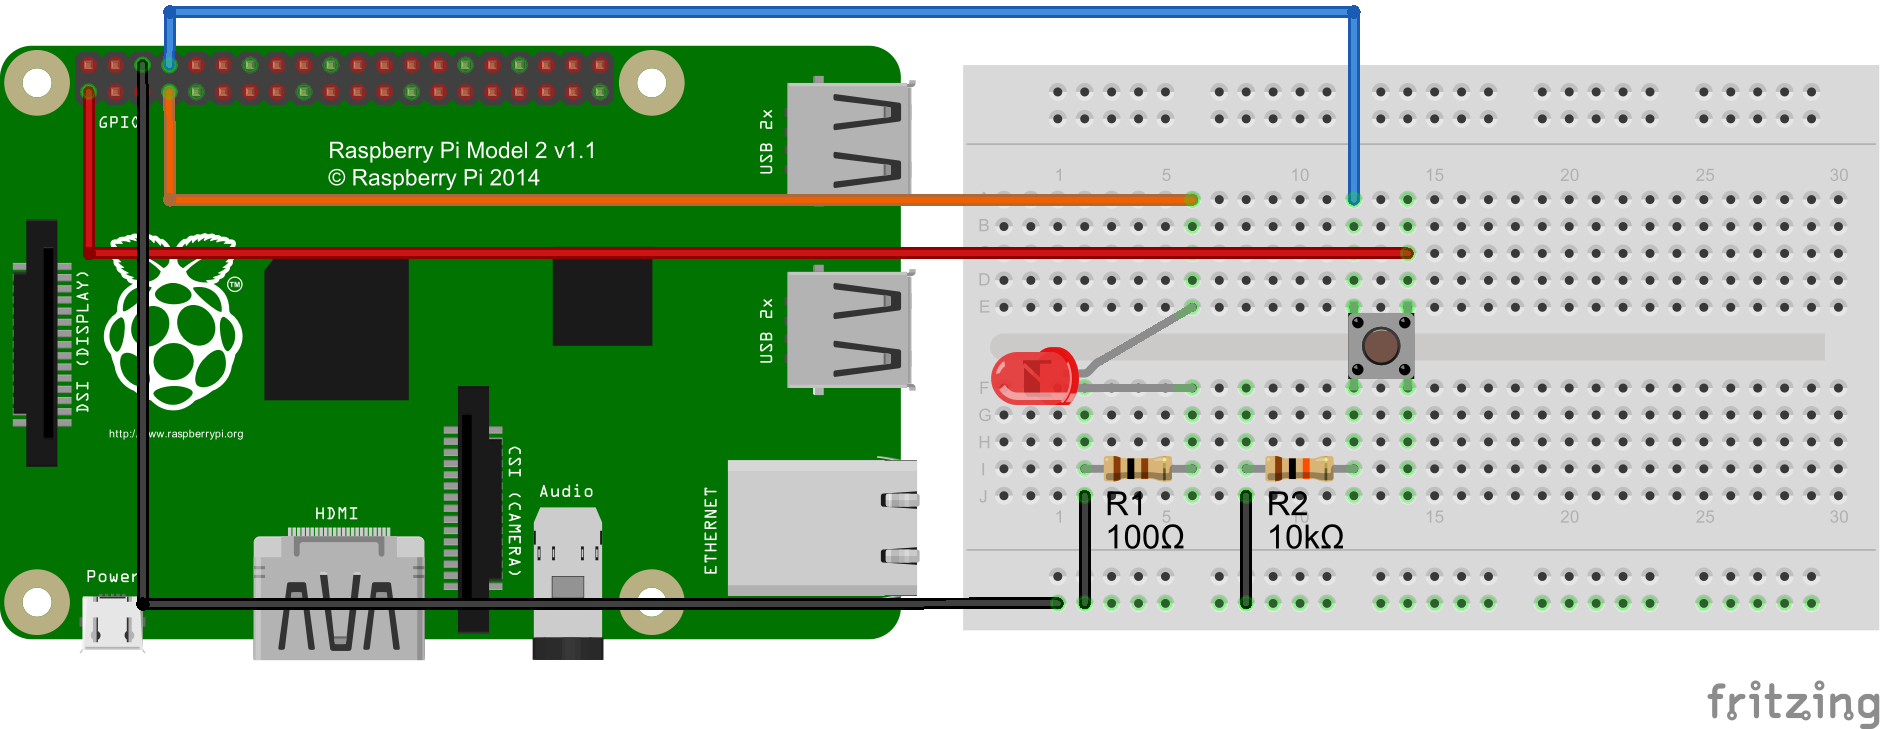
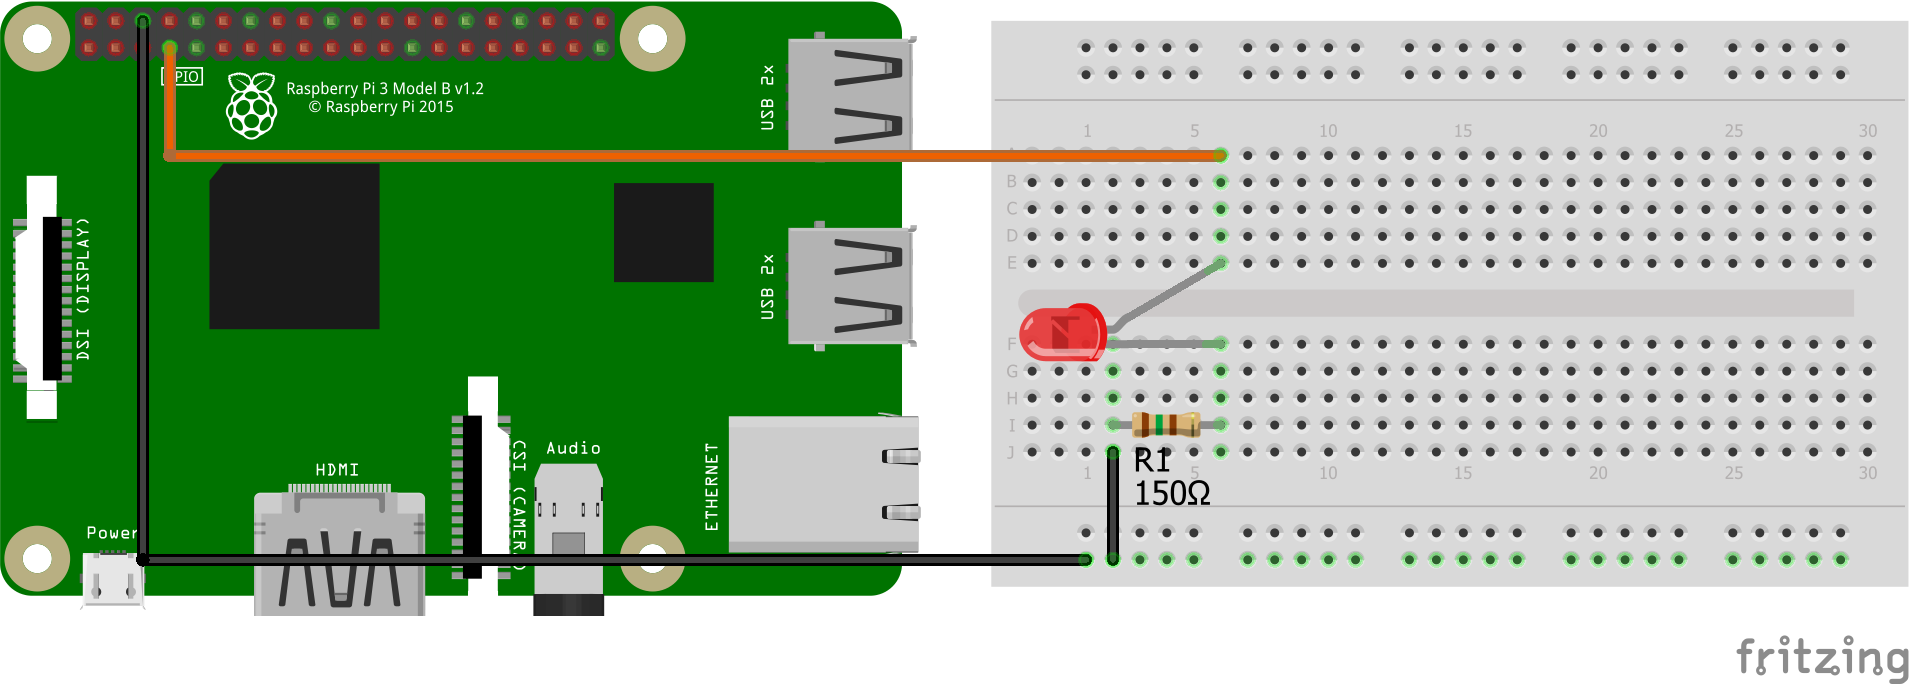
Updated RPI examples. Work in progress.

diff --git a/RaspberryPi/Blink-Fade/Blink-Fade.py b/RaspberryPi/Blink-Fade/Blink-Fade.py
@@ -15,68 +15,61 @@
   Purpose : Use RPi.GPIO module to blink or fade an LED. Execution
             switches between the two whenever a push button is pressed
             and released. Fading uses software PWM since RPi.GPIO
-            module does not support hardware PWM. Note that RPi.GPIO 
+            module does not support hardware PWM. Note that RPi.GPIO
             is available by default on Raspbian Jessie.
   Date    : 10 Mar 2016
-  Boards  : Raspberry Pi 2
+  Boards  : Raspberry Pi 3
   =====================================================================
 '''
 
 # Wiki examples on RPi.GPIO:
 # https://sourceforge.net/p/raspberry-gpio-python/wiki/Examples/
 
-import RPi.GPIO as GPIO
 import time
+import sys
+from itertools import chain
+import RPi.GPIO as GPIO
 
-ToBlink = True # True: blink, False: fade
-LedPin = 7 # GPIO7 for board numbering; GPIO4 for BCM numbering
-ButtonPin = 8
 
-def init():
-    GPIO.setmode(GPIO.BOARD)
-    
-    GPIO.setup(LedPin, GPIO.OUT)
-    
-    # Pulldown mode and detect event when push button is released
-    GPIO.setup(ButtonPin, GPIO.IN, pull_up_down=GPIO.PUD_DOWN)
-    GPIO.add_event_detect(ButtonPin, GPIO.FALLING)
-
-    
-def readButton():
-    global ToBlink
-    if GPIO.event_detected(ButtonPin):
-        ToBlink = not ToBlink
-
-    
-def blink(n=1):
+def blink(pin, n=1):
     for _ in range(n):
-        GPIO.output(LedPin, True)
-        time.sleep(1)
-        GPIO.output(LedPin, False)
-        time.sleep(1)
+        GPIO.output(pin, True)
+        time.sleep(0.5)
+        GPIO.output(pin, False)
+        time.sleep(0.5)
 
-        
-def fade(n=1):
-    pwm = GPIO.PWM(LedPin, 500)
-    for _ in range(n):
-        for dutyCycle in range(0, 100, 5):
-            pwm.start(dutyCycle)
-            time.sleep(0.05)
-        for dutyCycle in range(100, 0, -5):
-            pwm.start(dutyCycle)
-            time.sleep(0.05)
+
+def fade(pin, n=1000):
+    pwm = GPIO.PWM(pin, 100)
+    pwm.start(0)
+    try:
+        for _ in range(n):
+            for dc in chain(range(0, 101, 5), range(100, -1, -5)):
+                pwm.ChangeDutyCycle(dc)
+                time.sleep(0.05)
+    except KeyboardInterrupt:
+        pwm.stop()
+        raise KeyboardInterrupt
     pwm.stop()
 
 
-init()
-try:
-    while True:
-        readButton()
-        if ToBlink:
-            blink()
-        else:
-            fade()
-except KeyboardInterrupt:
-    pass
-finally:
-    GPIO.cleanup()
+if __name__ == '__main__':
+    if len(sys.argv) > 1 and sys.argv[1] == 'fade':
+        ToFade = True
+    else:
+        ToFade = False
+
+    LedPin = 7 # GPIO7 for board numbering; GPIO4 for BCM numbering
+    GPIO.setmode(GPIO.BOARD)
+    GPIO.setup(LedPin, GPIO.OUT)
+
+    try:
+        while True:
+            if ToFade:
+                blink(LedPin)
+            else:
+                fade(LedPin)
+    except KeyboardInterrupt:
+        pass
+    finally:
+        GPIO.cleanup()

diff --git a/RaspberryPi/WiringPi-PWM/WiringPi-PWM.py b/RaspberryPi/WiringPi-PWM/WiringPi-PWM.py
@@ -1,0 +1,63 @@
+'''=====================================================================
+This program is free software: you can redistribute it and/or modify
+it under the terms of the GNU General Public License as published by
+the Free Software Foundation, either version 3 of the License, or
+(at your option) any later version.
+
+This program is distributed in the hope that it will be useful,
+but WITHOUT ANY WARRANTY; without even the implied warranty of
+MERCHANTABILITY or FITNESS FOR A PARTICULAR PURPOSE.  See the
+GNU General Public License for more details.
+
+You should have received a copy of the GNU General Public License
+along with this program.  If not, see <http://www.gnu.org/licenses/>.
+---------------------------------------------------------------------
+Purpose : Use WiringPi-Python binding of WiringPi C implementation.
+            Source: https://github.com/WiringPi/WiringPi-Python
+            This example shows HW PWM on GPIO18. Code shows the use
+            of SW PWM, which is possible on any GPIO pin.
+Date    : 13 Jun 2017
+Boards  : Raspberry Pi 3
+=====================================================================
+'''
+
+import time
+import sys
+from itertools import chain
+import wiringpi
+
+
+def hw_pwm(pin=18, n=1000):
+    wiringpi.pinMode(pin, 2)
+    for _ in range(n):
+        for dc in chain(range(0, 101, 5), range(100, -1, -5)):
+            wiringpi.pwmWrite(pin, dc)
+            time.sleep(0.05)
+
+
+def sw_pwm(pin, n=1000):
+    # TODO Supposed to work on any GPIO ping but works only on GPIO18
+    wiringpi.pinMode(pin, 1)
+    wiringpi.softPwmCreate(pin, 0, 100)
+    for _ in range(n):
+        for dc in chain(range(0, 101, 5), range(100, -1, -5)):
+            wiringpi.softPwmWrite(pin, dc)
+            time.sleep(0.05)
+
+
+if __name__ == '__main__':
+    if len(sys.argv) > 1 and sys.argv[1] == 'sw':
+        SwPwm = True
+    else:
+        SwPwm = False
+
+    LedPin = 18 # BCM numbering is default
+    wiringpi.wiringPiSetupGpio()
+
+    try:
+        if SwPwm:
+            sw_pwm(LedPin)
+        else:
+            hw_pwm()
+    except KeyboardInterrupt:
+        wiringpi.pinMode(LedPin, 0)

diff --git a/RaspberryPi/WiringPi-PWM/WiringPi-PWM.c b/RaspberryPi/WiringPi-PWM/WiringPi-PWM.c
@@ -1,0 +1,7 @@
+#include <wiringPi.h>
+#include <softPwm.h>
+
+main()
+{
+    // TODO WiringPi C code for software PWM and hardware PWM
+}

diff --git a/README.md b/README.md
@@ -232,15 +232,23 @@ with your token, Wi-Fi SSID and password.
 </tr>
 </table>
 
-# RaspberryPi/ (1 projects)
+# RaspberryPi/ (2 projects)
 <table><tr>
 <tr>
 <td style="width:200px"><a href="RaspberryPi/Blink-Fade">Blink-Fade</a></td>
 <td><pre>Use RPi.GPIO module to blink or fade an LED. Execution
 switches between the two whenever a push button is pressed
 and released. Fading uses software PWM since RPi.GPIO
-module does not support hardware PWM. Note that RPi.GPIO 
+module does not support hardware PWM. Note that RPi.GPIO
 is available by default on Raspbian Jessie.
+</pre></td>
+</tr>
+<tr>
+<td style="width:200px"><a href="RaspberryPi/WiringPi-PWM">WiringPi-PWM</a></td>
+<td><pre>Use WiringPi-Python binding of WiringPi C implementation.
+Source: https://github.com/WiringPi/WiringPi-Python
+This example shows HW PWM on GPIO18. Code shows the use
+of SW PWM, which is possible on any GPIO pin.
 </pre></td>
 </tr>
 </table>

diff --git a/RaspberryPi/Blink-Fade/README.md b/RaspberryPi/Blink-Fade/README.md
@@ -4,11 +4,11 @@
 <br><img src="Blink-Fade_bb.png" width=320px>
 </td>
 <td>
-<b>Boards</b><p><pre>Raspberry Pi 2</pre></p>
+<b>Boards</b><p><pre>Raspberry Pi 3</pre></p>
 <b>Description</b><p><pre>Use RPi.GPIO module to blink or fade an LED. Execution
 switches between the two whenever a push button is pressed
 and released. Fading uses software PWM since RPi.GPIO
-module does not support hardware PWM. Note that RPi.GPIO 
+module does not support hardware PWM. Note that RPi.GPIO
 is available by default on Raspbian Jessie.
 </pre></p>
 </td>

diff --git a/RaspberryPi/WiringPi-PWM/README.md b/RaspberryPi/WiringPi-PWM/README.md
@@ -1,0 +1,15 @@
+# WiringPi-PWM
+<table><tr>
+<td>
+<br><img src="WiringPi-PWM_bb.png" width=320px>
+</td>
+<td>
+<b>Boards</b><p><pre>Raspberry Pi 3</pre></p>
+<b>Description</b><p><pre>Use WiringPi-Python binding of WiringPi C implementation.
+Source: https://github.com/WiringPi/WiringPi-Python
+This example shows HW PWM on GPIO18. Code shows the use
+of SW PWM, which is possible on any GPIO pin.
+</pre></p>
+</td>
+</tr></table>
+
